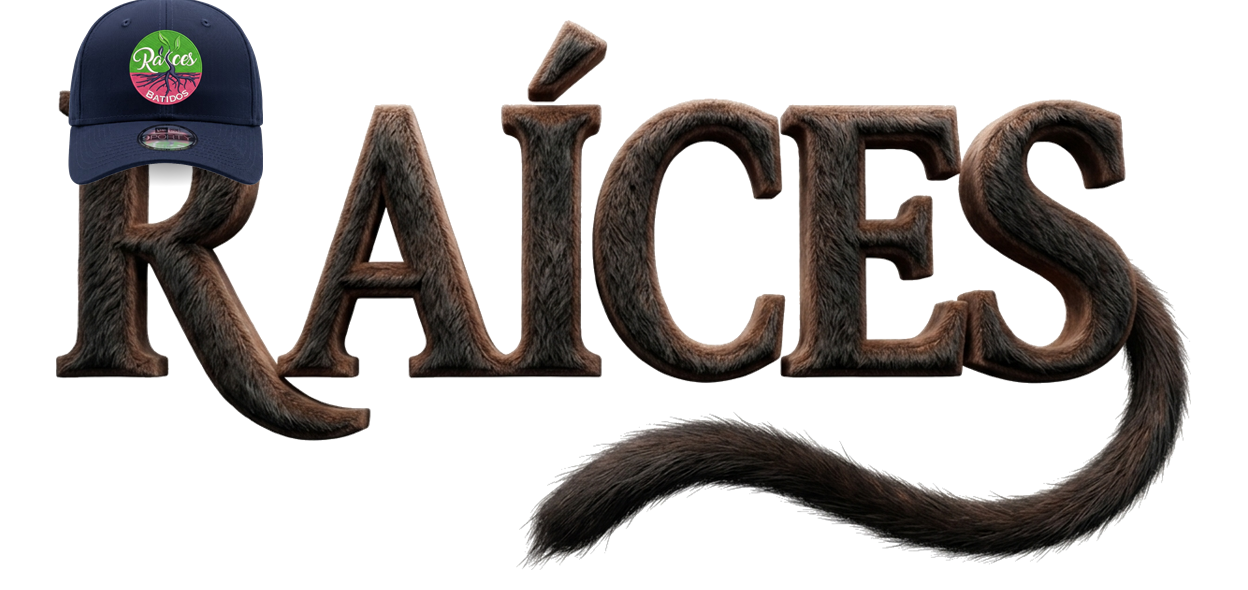
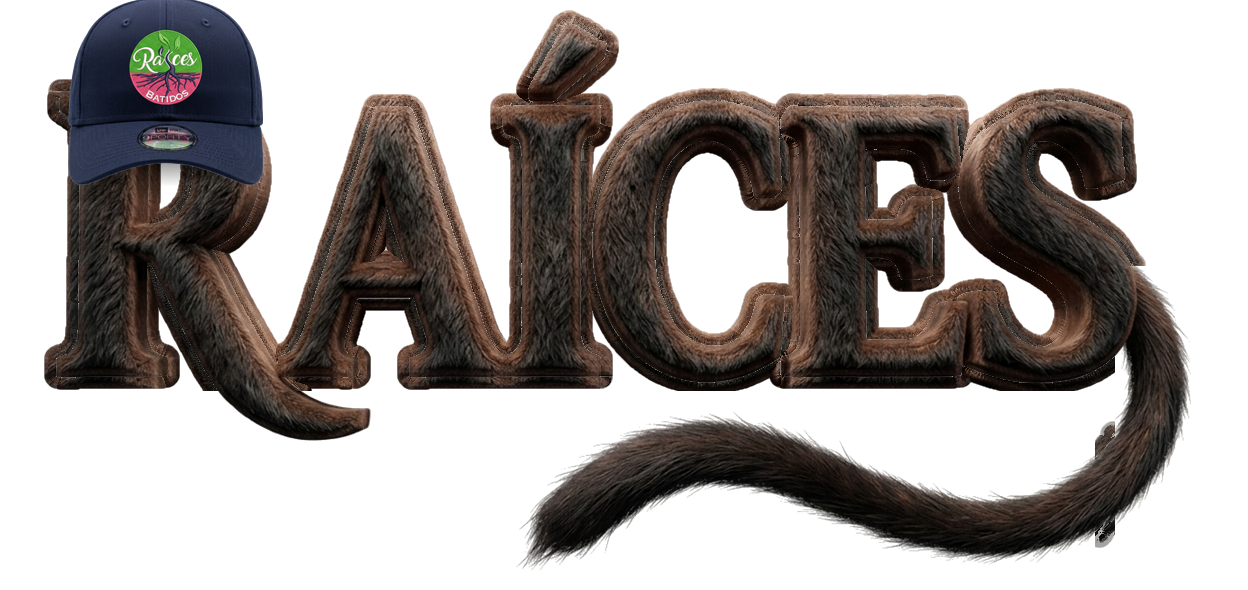
feat(menu): letras del titulo RAICES mucho mas gruesas y ajuste loro

diff --git a/src/main/resources/templates/menu.html b/src/main/resources/templates/menu.html
@@ -403,9 +403,9 @@ section>.max-w-7xl{position:relative;z-index:2}
     
     <h1 class="hero-in mb-2 sm:mb-4 select-none leading-none flex items-center justify-center relative z-20" style="--d:.12s">
         <div id="hero-lion-title-wrap" class="hero-lion-3d relative inline-block w-[92vw] max-w-[440px] sm:max-w-[640px] md:max-w-[780px] lg:max-w-[900px]" style="overflow:visible">
-            <img id="hero-logo-cola-3d" src="titulo-raices-cola.png?v=1" alt="" aria-hidden="true" decoding="async" class="chimp-tail-wag absolute inset-0 w-full h-full object-contain pointer-events-none select-none z-10">
-            <img id="hero-logo-leon-3d" src="titulo-raices-chimpance-base.png?v=1" alt="RAÍCES" decoding="async" class="relative z-20 block w-full h-auto object-contain pointer-events-none select-none">
-            <div id="hero-parrot-stage" title="Loro Real RAÍCES · Vivo en 3D" style="position:absolute;left:70.0%;top:18.8%;width:40%;aspect-ratio:1/1;transform:translate(-50%,-62.4%);pointer-events:auto;z-index:35;cursor:pointer;overflow:visible">
+            <img id="hero-logo-cola-3d" src="titulo-raices-cola.png?v=2" alt="" aria-hidden="true" decoding="async" class="chimp-tail-wag absolute inset-0 w-full h-full object-contain pointer-events-none select-none z-10">
+            <img id="hero-logo-leon-3d" src="titulo-raices-chimpance-base.png?v=2" alt="RAÍCES" decoding="async" class="relative z-20 block w-full h-auto object-contain pointer-events-none select-none">
+            <div id="hero-parrot-stage" title="Loro Real RAÍCES · Vivo en 3D" style="position:absolute;left:70.0%;top:16.8%;width:40%;aspect-ratio:1/1;transform:translate(-50%,-62.4%);pointer-events:auto;z-index:35;cursor:pointer;overflow:visible">
                 <canvas id="hero-parrot-canvas" style="width:100%;height:100%;display:block;pointer-events:none"></canvas>
             </div>
         </div>
